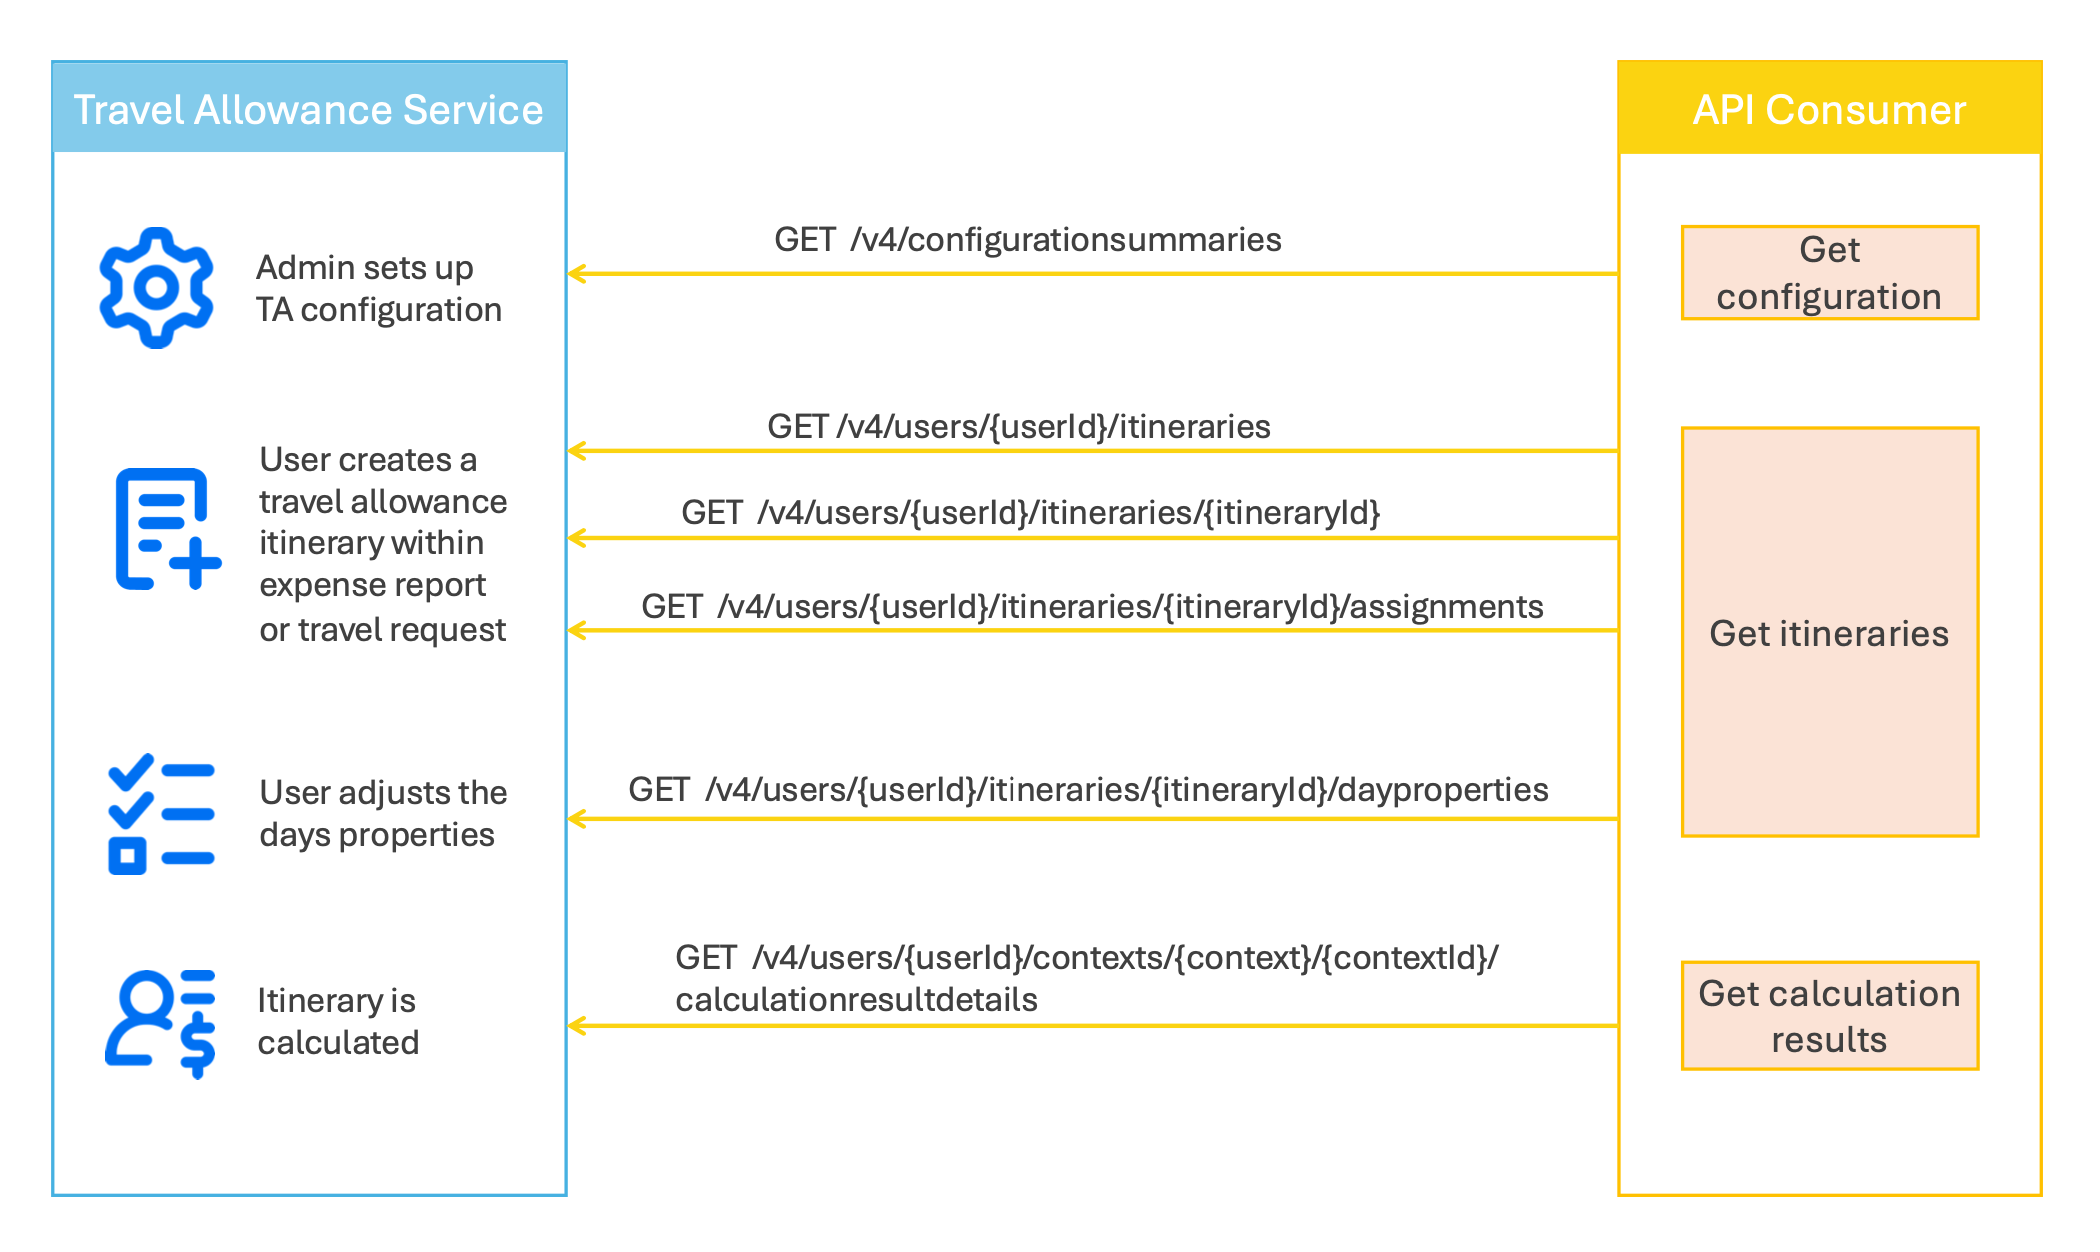
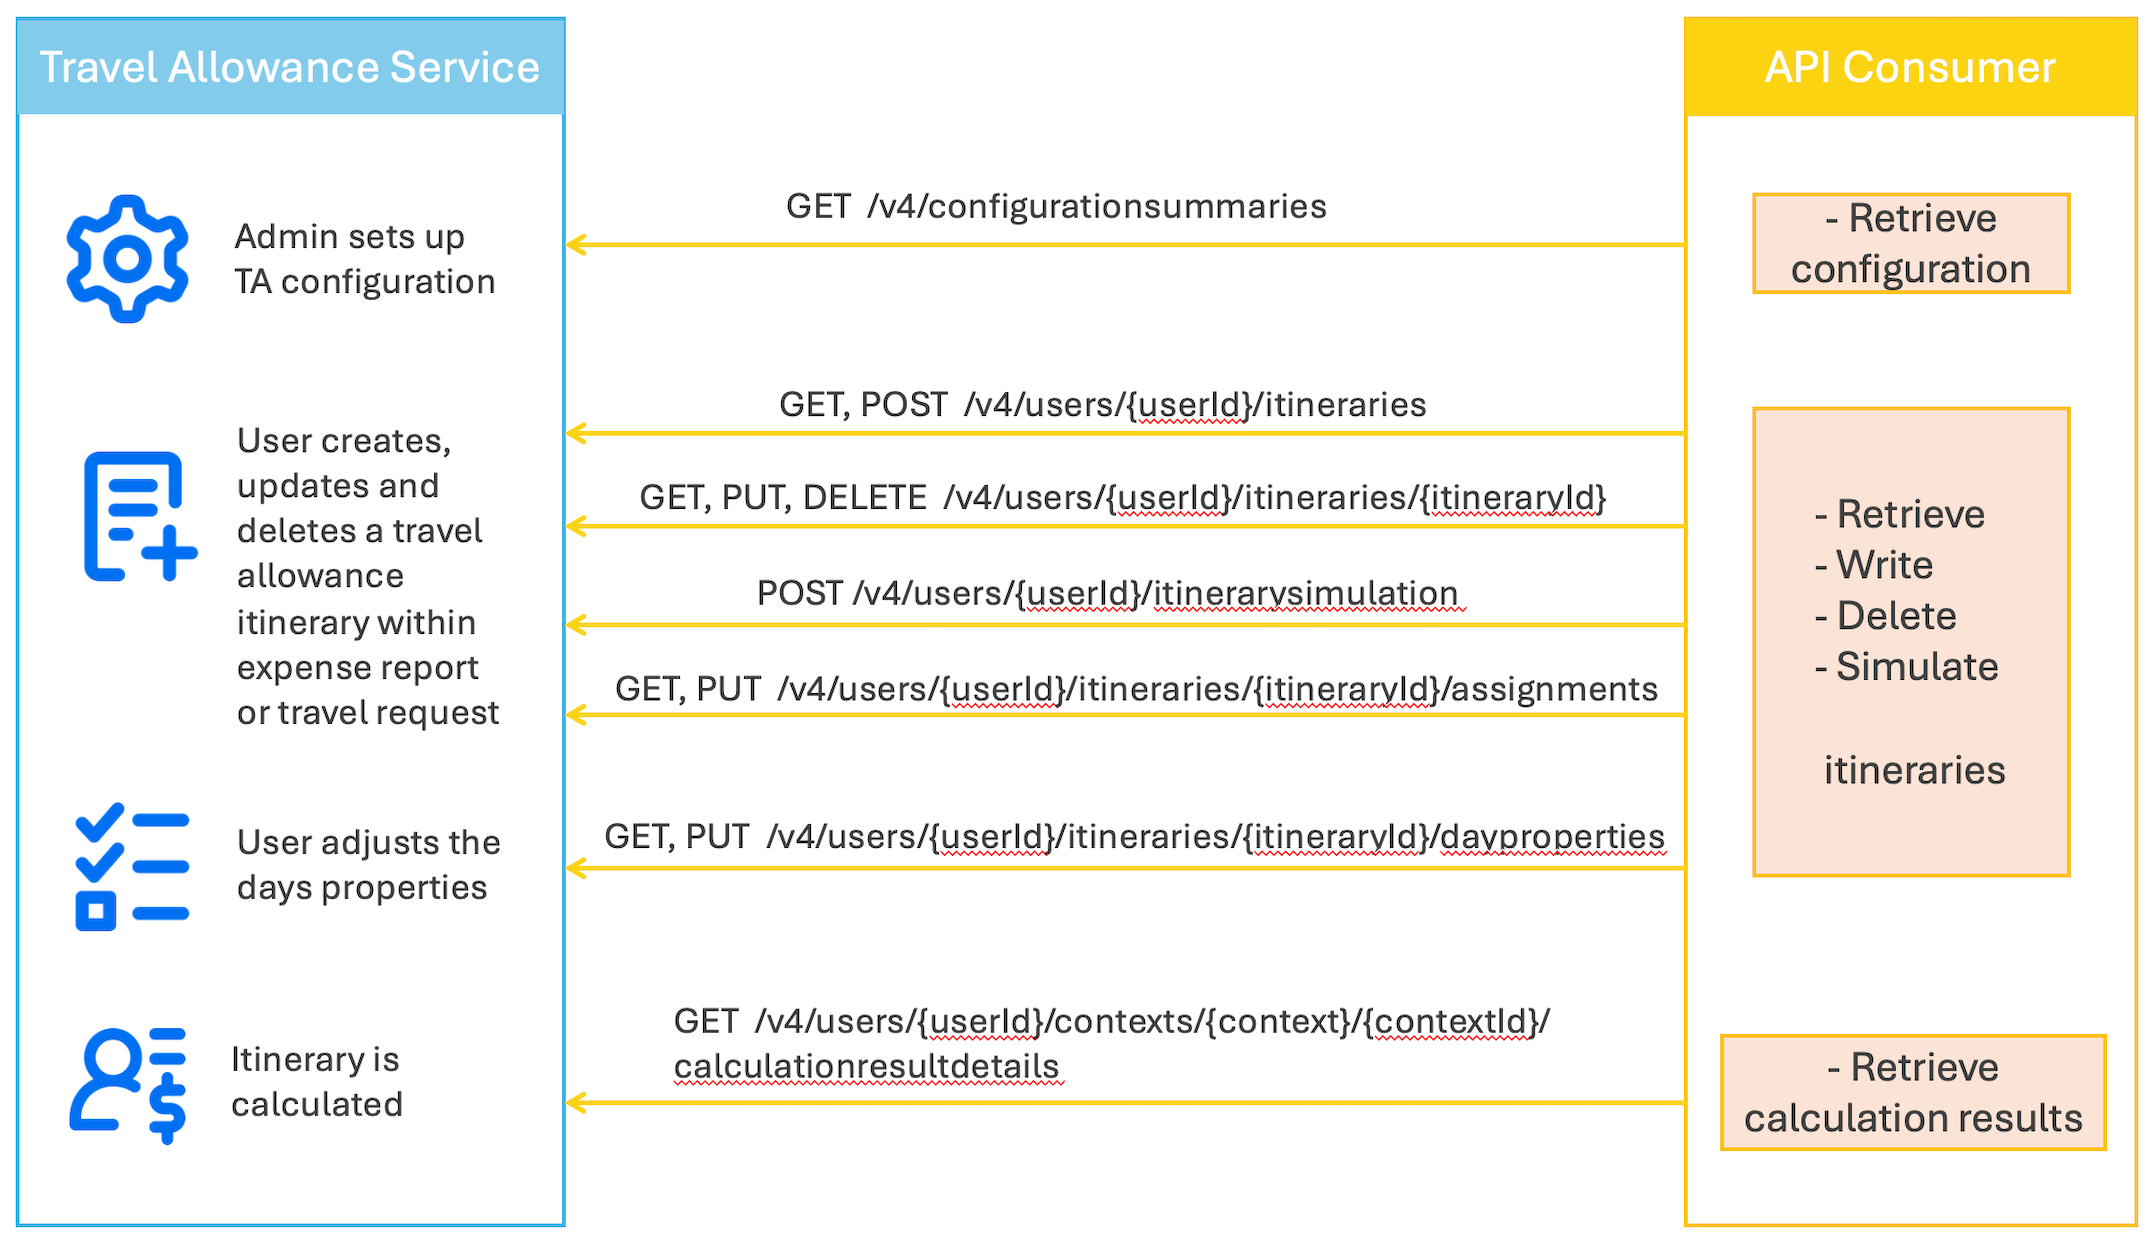
[skip ci] Updates

Changed region(s): [[0.0, 0.0, 1.0, 1.0]]

diff --git a/api-reference/travelallowance/v4.travelallowance-get-started.html b/api-reference/travelallowance/v4.travelallowance-get-started.html
@@ -1298,7 +1298,7 @@ This API exposes three different resources:</p>
   <tbody>
     <tr>
       <td>Itinerary</td>
-      <td>You can read Travel Allowance Itinerary data.</td>
+      <td>You can read, write and simulate Travel Allowance Itinerary data.</td>
     </tr>
     <tr>
       <td>Calculation Results</td>
@@ -1340,6 +1340,11 @@ This API exposes three different resources:</p>
       <td><code class="language-plaintext highlighter-rouge">travelallowance.itinerary.read</code></td>
       <td>Read Travel Allowance Itinerary</td>
       <td>GET</td>
+    </tr>
+    <tr>
+      <td><code class="language-plaintext highlighter-rouge">travelallowance.itinerary.writeonly</code></td>
+      <td>Create Travel Allowance Itinerary</td>
+      <td>POST, PUT, DELETE</td>
     </tr>
     <tr>
       <td><code class="language-plaintext highlighter-rouge">travelallowance.itineraryresult.read</code></td>
